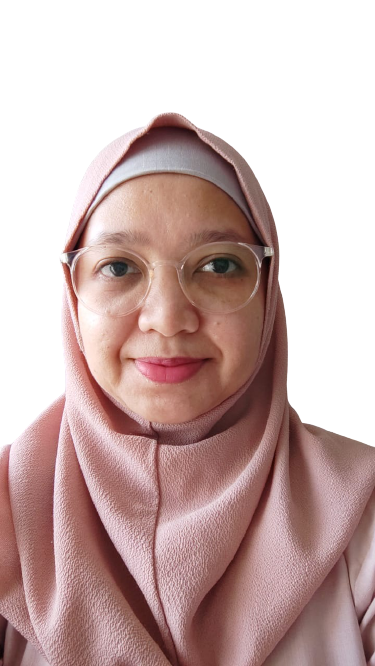
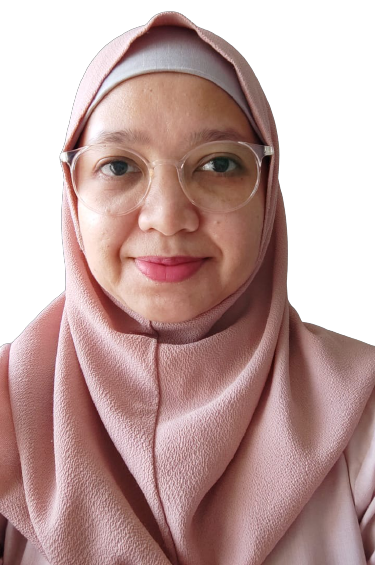
upload foto helper yang belum
upload helper yang kurang

diff --git a/index.html b/index.html
@@ -203,7 +203,7 @@
                     </ul></p>
                 </div>
                 <div class="col-sm-4  text-center expert">
-                    <img src="foto/TF.png" class="rounded-circle mb-3">
+                    <img src="foto/TF.png" class="rounded-circle mb-3" width="70">
                     <h4>Trisce Felery Thendean, M.PSI., PSI.</h4>
                     <p class="text-center">Clinical Psychologist</p>
                     <p><b>Fokus Kajian</b><br>
@@ -238,11 +238,15 @@
                         <p>Romantic & Self Improvement Enthusiast</p>
                     </div>
                     <div class="col-sm-3 helper text-center">
+                        <img src="foto/CN.png" class="rounded-circle mb-3">
+                        <h4>Cindy Natasya</h4>
+                    </div>
+                    <div class="col-sm-1"></div>
+                    <div class="col-sm-3 helper text-center">
                         <img src="foto/ES.png" class="rounded-circle mb-3">
                         <h4>Eirene Ericha Sulu, S.PSI.</h4>
                         <p>Magister Student Of Profesional Psychology</p>
                     </div>
-                    <div class="col-sm-1"></div>
                     <!-- <div class="col-sm-1"></div> -->
                     <div class="col-sm-3 helper text-center">
                         <img src="foto/MS.png" class="rounded-circle mb-3">
@@ -254,22 +258,29 @@
                         <h4>Nian Indah Kinanthi, S.PSI.</h4>
                         <p>Sport Psychology & Personal Development Enthusiast</p>
                     </div>
+                    <!-- <div class="col-sm-1"></div> -->
+                    <div class="col-sm-2 m-4 text-center"></div>
                     <div class="col-sm-3 helper text-center">
                         <img src="foto/PS.png" class="rounded-circle mb-3">
                         <h4>Pandjit Satrio Aji, S.PSI.</h4>
                         <p>Romantic & Social Relationship Enthusiast</p>
                     </div>
-                    <div class="col-sm-2 m-4 text-center"></div>
+                    
                     <div class="col-sm-3 helper text-center">
                         <img src="foto/RN.png" class="rounded-circle mb-3">
                         <h4>Arief Rachman N, S.PSI.</h4>
                         <p>Self Improvement Enthusiast</p>
                     </div>
-                    <!-- <div class="col-sm-1 text-center"></div> -->
+                    <div class="col-sm-1 text-center"></div>
+                    <div class="col-sm-2 m-4 text-center"></div>
                     <div class="col-sm-3 helper text-center">
                         <img src="foto/RS.png" class="rounded-circle mb-3">
                         <h4>Raissa Safrida, S.PSI.</h4>
                         <p>Magister Student Of Profesional Psychology</p>
+                    </div>
+                    <div class="col-sm-3 helper text-center">
+                        <img src="foto/SS.png" class="rounded-circle mb-3">
+                        <h4>Syifa Shafira, S.PSI.</h4>
                     </div>
                 </div>
             </div>
